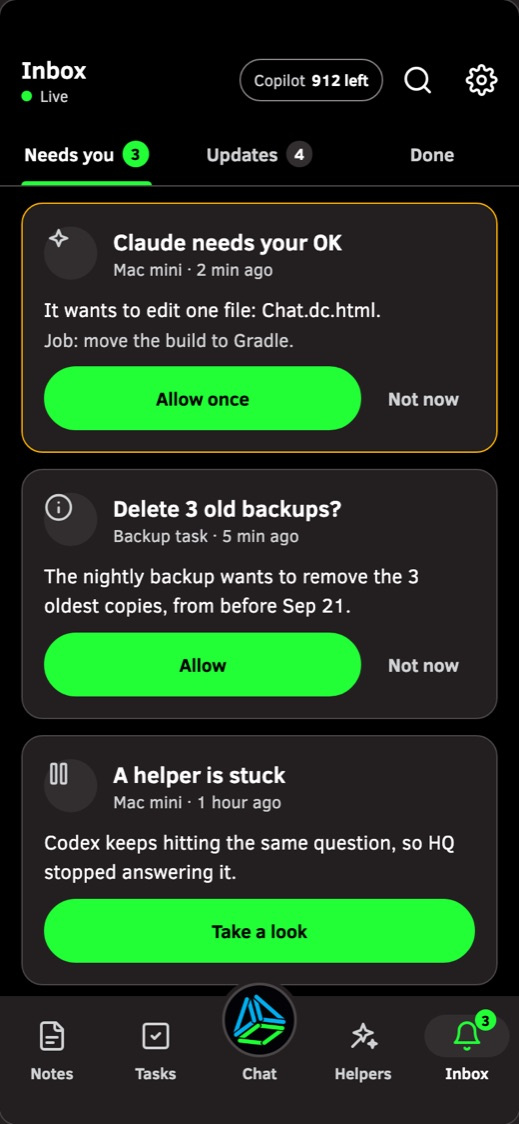
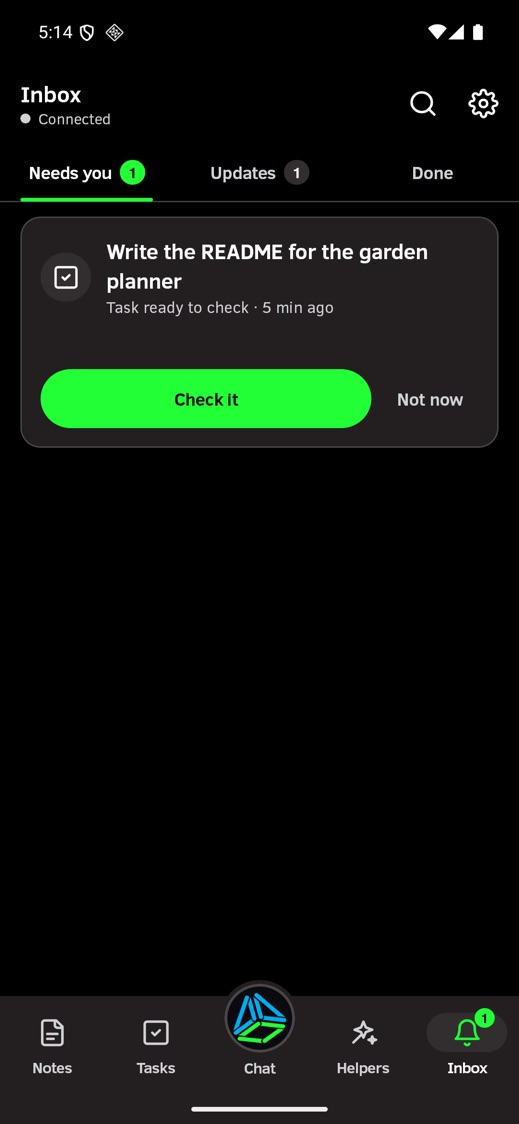
site: the web app looks like the phone, the desktop app, and what HQ asks and offers (#434)
* site: the web app looks like the phone, the desktop app, and what HQ asks and offers

The See it screens now show the current web app (Chat, Notes, Tasks and
Inbox), taken from a demo HQ with demo data, in place of the old home,
sessions, board and vault screens. New: a section on the AgentHQ desktop
app (HQ Hub, the HQ window on your phone's HQ, lending the Mac's model,
and what is not there yet), and two cards: owner approval before calls
outside the vault, and HQ showing what it can do with usage kept on the
device. The phone section mentions model sharing (off by default) and no
longer calls its screens a preview of where the design is heading.
llms.txt drops the retired claude.ai connector and adds owner approval.

Claude-Session: https://claude.ai/code/session_01GfBLGHWgujnb5D2o5W6pLU

* site: real phone screens and an HQ Hub screenshot, from demo setups

Tasks, Inbox, Notes and Keep running are now the Android app itself, from
a fresh install of the release APK on an emulator with demo notes and
tasks; Chat and Helpers stay the design's, and the caption says which is
which. The desktop section shows HQ Hub's This computer tab, rendered
from the real control window with demo answers in place of its backend.

Claude-Session: https://claude.ai/code/session_01GfBLGHWgujnb5D2o5W6pLU

---------

diff --git a/apps/site/src/data/site.ts b/apps/site/src/data/site.ts
@@ -22,10 +22,10 @@ export const links = {
   windows: `${REPO_BLOB}/docs/WINDOWS.md`,
   hqMobile: `${REPO_BLOB}/docs/HQ_MOBILE.md`,
   androidApp: `${REPO_BLOB}/apps/android/README.md`,
+  desktopApp: `${REPO_BLOB}/docs/DESKTOP.md`,
   androidApk: `${REPO}/releases/latest/download/agent-hq-android.apk`,
   docker: `${REPO_BLOB}/docs/DOCKER.md`,
   pairing: `${REPO_BLOB}/docs/PAIRING.md`,
-  connector: `${REPO_BLOB}/docs/CLAUDE_CONNECTOR.md`,
   joinMachine: `${REPO_BLOB}/docs/JOIN_A_MACHINE.md`,
   mcpAsk: `${REPO_BLOB}/docs/MCP_ASK.md`,
   nativeTasks: `${REPO_BLOB}/docs/plans/native-tasks.md`,
